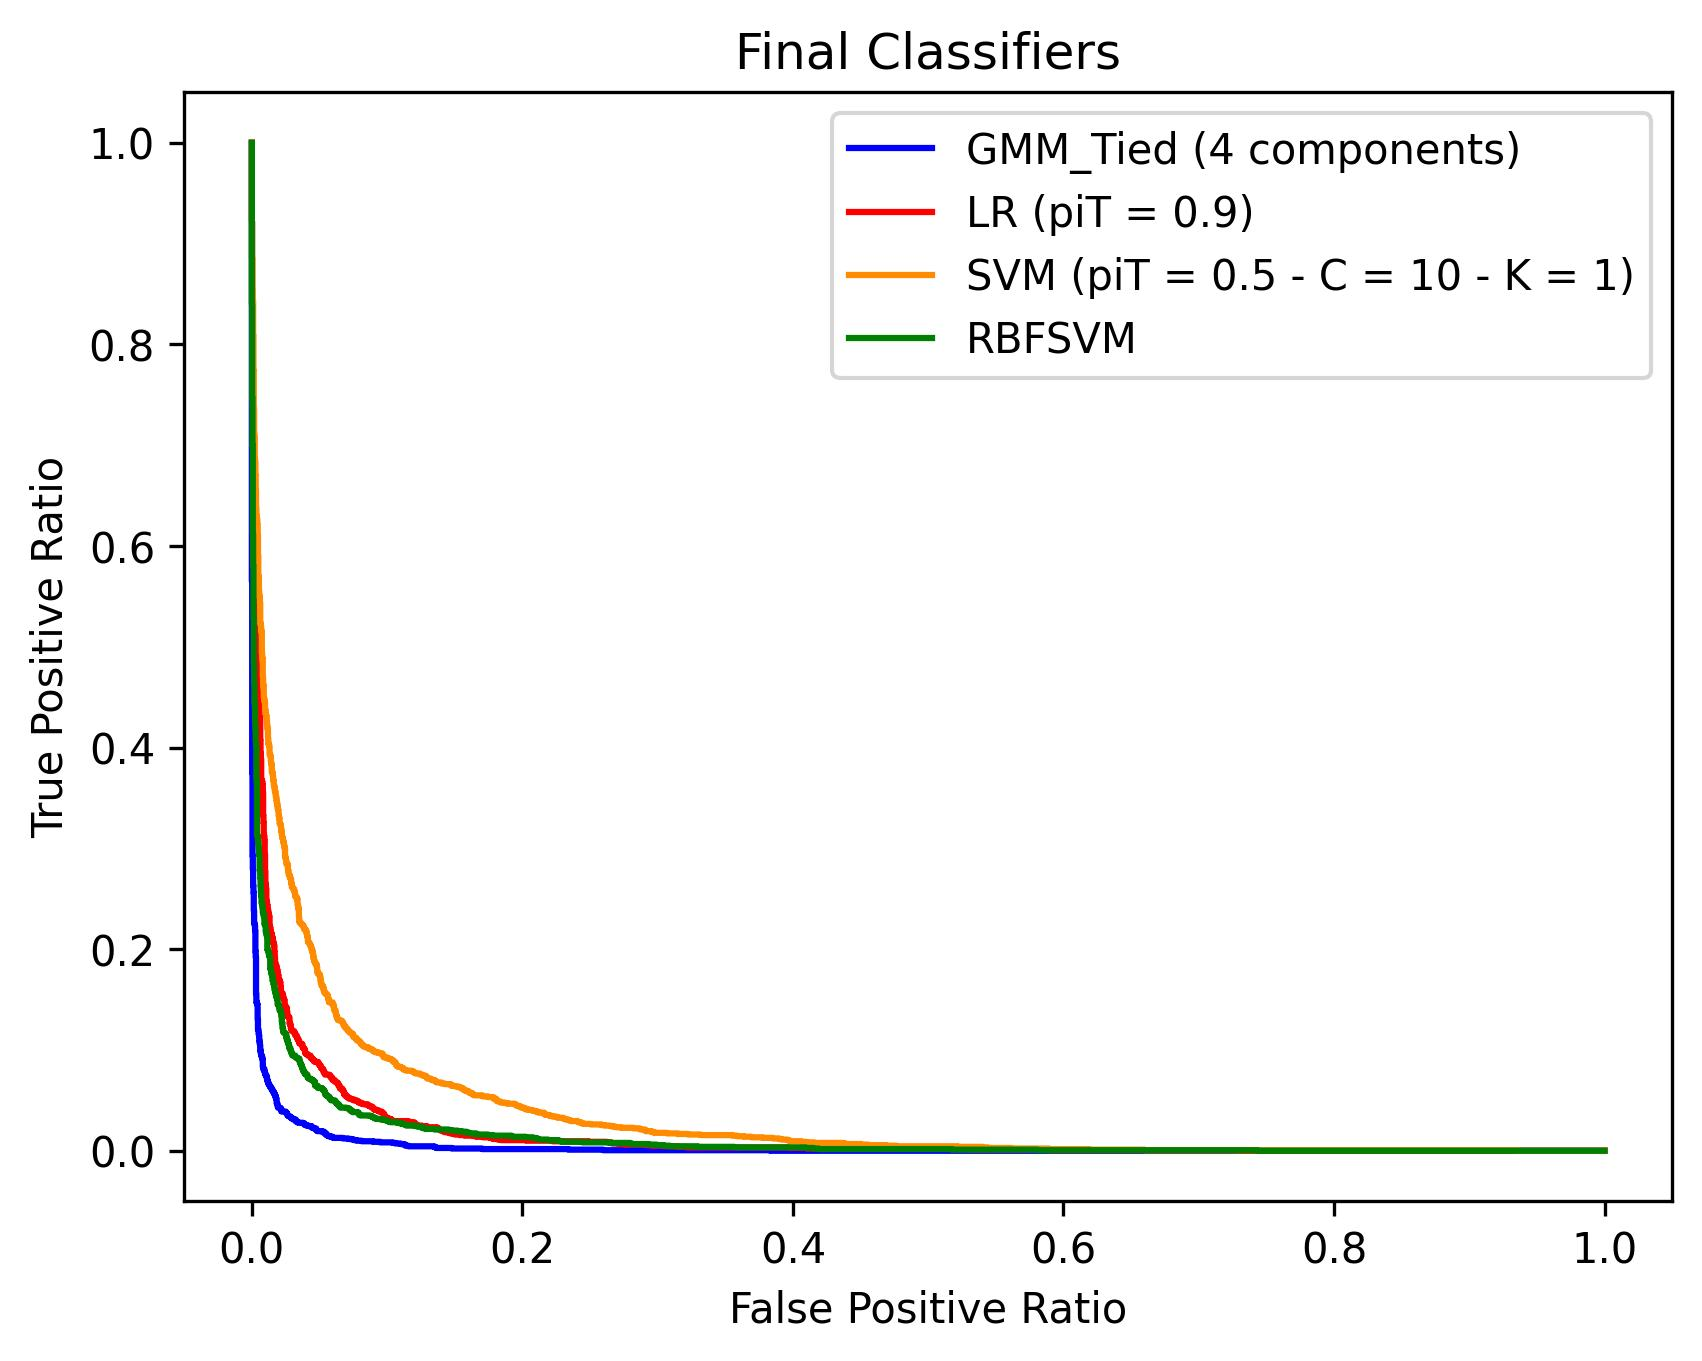
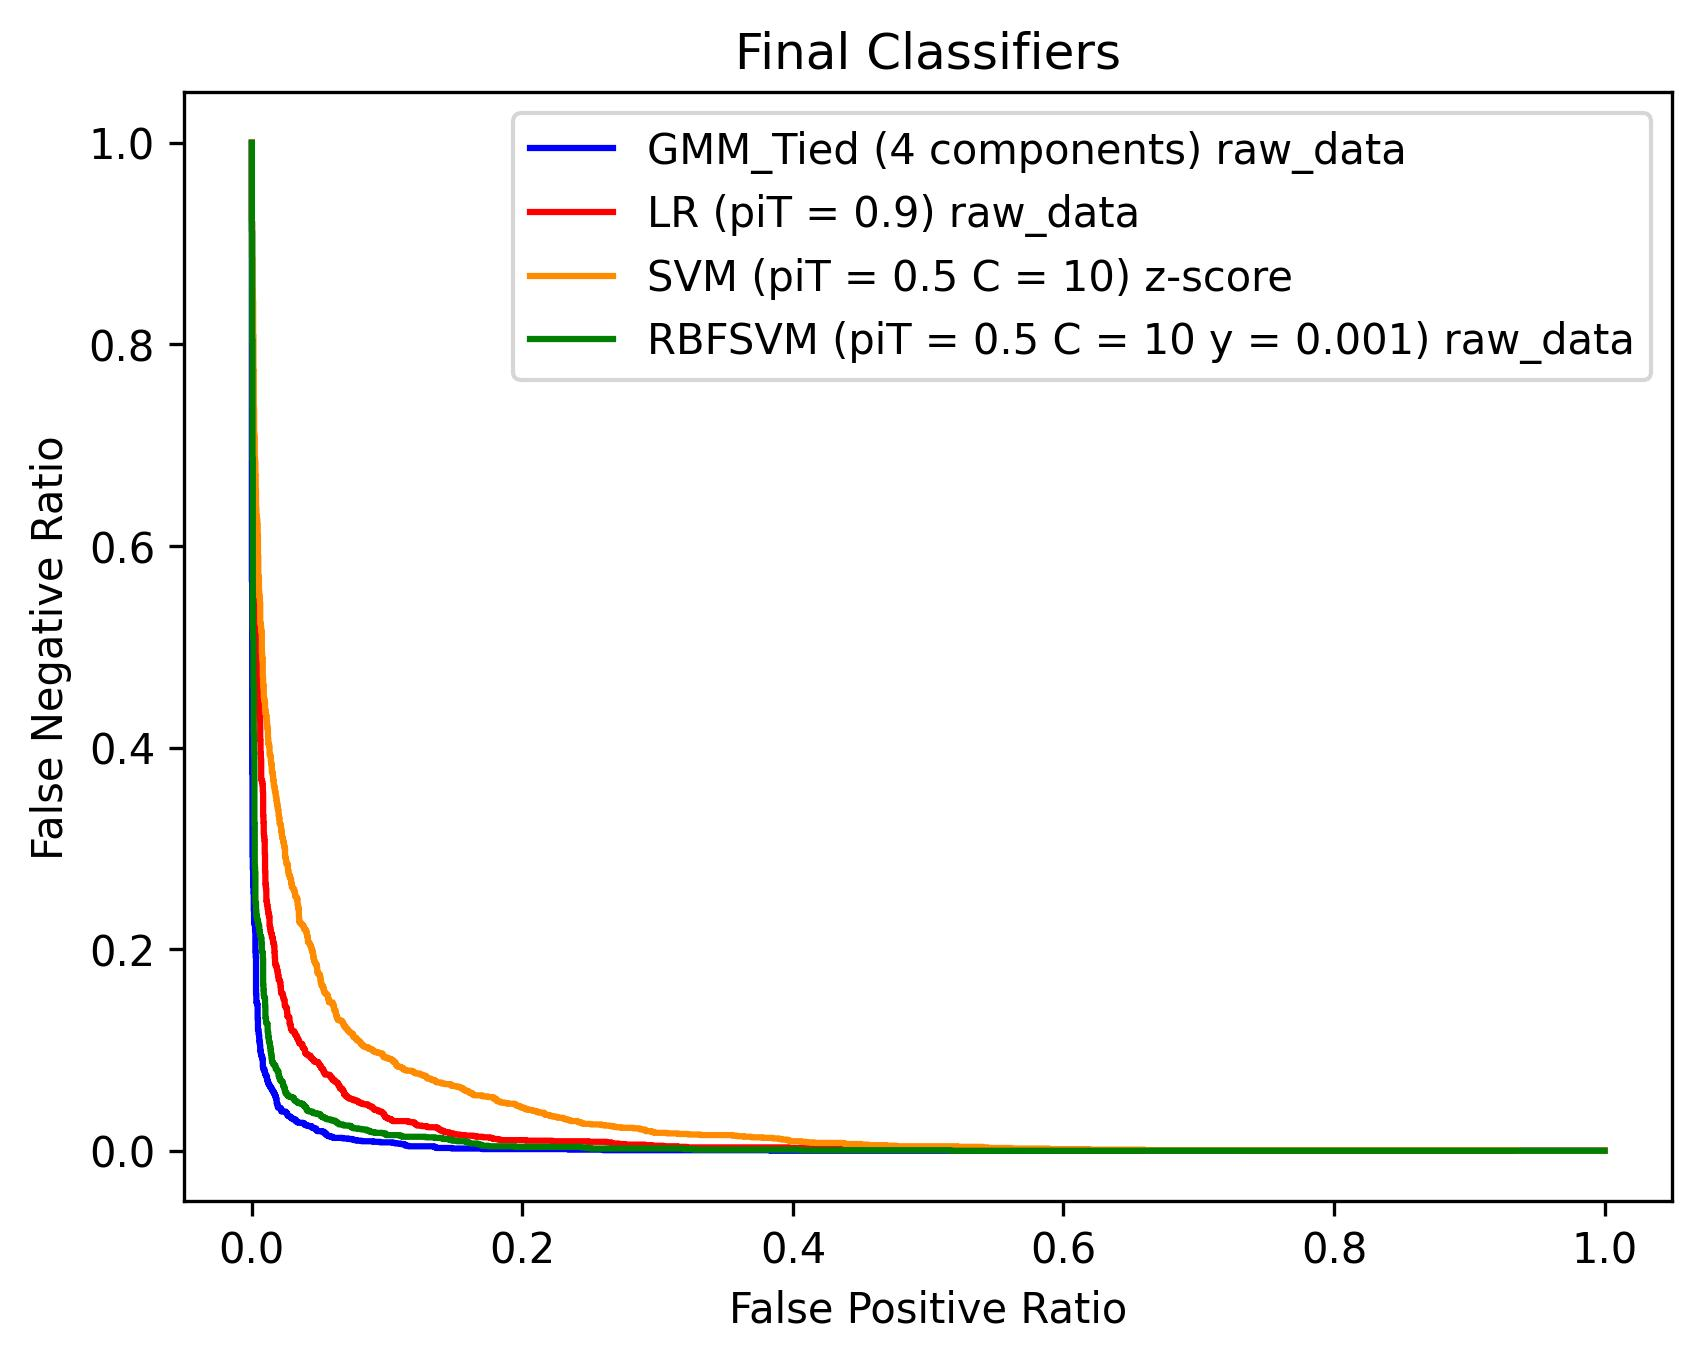
s

diff --git a/test_evaluation.py b/test_evaluation.py
@@ -7,6 +7,7 @@ import calibration
 import utility
 
 def test_models(DT, LT, DE, LE):
+
     priors = [0.5, 0.1, 0.9]
     calibrated_scores = []
 
@@ -14,10 +15,10 @@ def test_models(DT, LT, DE, LE):
     model_lr = logisticRegression.LogisticRegression(DT, LT, 0, 0.9)
     DTz = utility.z_normalization(DT) # per z-normalization
     model_svm = SVM.SVM(DTz, LT, 0.5, 10, 1)
-    model_rbfsvm = SVM.PolynomialSVM(DT, LT, 0.5, 0.001, 1, 1, 2) # DT, LT, prior, C, K, c, d
+    model_rbfsvm = SVM.RBF_SVM(DT, LT, 0.5, 10, 1, 0.001) # DT, LT, prior, C, K, y
 
     classifiers = [model_gmm, model_lr, model_svm, model_rbfsvm]
-    names = ['GMM_Tied (4 components)', 'LR (piT = 0.9)', 'SVM (piT = 0.5 - C = 10 - K = 1)', 'RBFSVM']
+    names = ['GMM_Tied (4 components) raw_data', 'LR (piT = 0.9) raw_data', 'SVM (piT = 0.5 C = 10) z-score', 'RBFSVM (piT = 0.5 C = 10 y = 0.001) raw_data']
 
     for idx, model in enumerate(classifiers):
         model.train()
@@ -39,3 +40,106 @@ def test_models(DT, LT, DE, LE):
     utility.plot_DET_curve(names, colors, calibrated_scores, LE, 'final_classifiers', 'Final Classifiers')
     print('DONE')
     
+
+def test_best_3_models(DT, LT, DE, LE):
+    # GMM, LR, RBFSVM
+    # GMM uncalibrated
+    # LR calibrate
+    # RBFSVM calibrate
+
+    p = numpy.linspace(-4, 4, 60) # BAYES Error Plot
+    minDCF_gmm = []
+    actDCF_gmm = []
+    minDCF_lr = []
+    actDCF_lr = []
+    minDCF_rbfsvm = []
+    actDCF_rbfsvm = []
+
+    for ip in p:
+        print(ip)
+        ip = 1.0 / (1.0 + numpy.exp(-ip))
+        scores_gmm = []
+        scores_lr = []
+        scores_rbfsvm = []
+
+        model_gmm_uncalibrated = GMM.GMM(DT, LT, 'tied', 4)
+        model_lr_calibrated = logisticRegression.LogisticRegression(DT, LT, 0, 0.9)
+        model_rbfsvm_calibrated = SVM.RBF_SVM(DT, LT, 0.5, 10, 1, 0.001) # DT, LT, prior, C, K, c, d
+
+        model_gmm_uncalibrated.train()
+        model_lr_calibrated.train()
+        model_rbfsvm_calibrated.train()
+
+        scores_gmm = model_gmm_uncalibrated.getScores(DE)
+        sc_lr = model_lr_calibrated.getScores(DT)
+        sc_rbfsvm = model_rbfsvm_calibrated.getScores(DT)
+
+        alpha1, beta1 = calibration.calibrated_parameters(sc_lr, LT) # alpha = w - beta = b
+        alpha2, beta2 = calibration.calibrated_parameters(sc_rbfsvm, LT) # alpha = w - beta = b
+
+        se_lr = model_lr_calibrated.getScores(DE)
+        se_rbfsvm = model_rbfsvm_calibrated.getScores(DE)
+
+        scores_lr = alpha1 * se_lr + beta1 - numpy.log(0.5 / (1 - 0.5))
+        scores_rbfsvm = alpha2 * se_rbfsvm + beta2 - numpy.log(0.5 / (1 - 0.5))
+
+        minDCF_gmm.append(evaluation.minimum_DCF(scores_gmm, LE, ip, 1, 1))
+        actDCF_gmm.append(evaluation.actual_DCF(scores_gmm, LE, ip, 1, 1))
+        minDCF_lr.append(evaluation.minimum_DCF(scores_lr, LE, ip, 1, 1))
+        actDCF_lr.append(evaluation.actual_DCF(scores_lr, LE, ip, 1, 1))
+        minDCF_rbfsvm.append(evaluation.minimum_DCF(scores_rbfsvm, LE, ip, 1, 1))
+        actDCF_rbfsvm.append(evaluation.actual_DCF(scores_rbfsvm, LE, ip, 1, 1))
+    
+    minDCF = [minDCF_gmm, minDCF_lr, minDCF_rbfsvm]
+    actDCF = [actDCF_gmm, actDCF_lr, actDCF_rbfsvm]
+    utility.bayes_error_plot_best_3_models(p, minDCF, actDCF, 'bayes_plot_best_3_models', 'Bayes plot comparing GMM - LR - RBFSVM')
+
+
+def test_gmm_models(D, L, DE, LE):
+    components = [1, 2, 4, 8, 16, 32]
+    types_gmm = ['full_cov', 'tied']
+    data_type = ['raw_data', 'z_score_data']
+
+    for t in types_gmm:         # 2 plot, in base al tipo gmm e gmm tied
+        minDCF = []
+        minDCF_test = []
+        for title in data_type:
+            if title == 'z_score_data':
+                DTR = utility.z_normalization(D) # dati normalizzati
+                DER = utility.z_normalization(DE) # dati normalizzati
+            else:
+                DTR = D
+                DER = DE
+            for c in components:
+                print("")
+                print("----- GMM_%s components = %.1f %s-----" % (t, c, title))
+                model_test = GMM.GMM(DTR, L, t, c)
+                model_test.train()
+
+                Dfolds, Lfolds = numpy.array_split(DTR, 5, axis=1), numpy.array_split(L, 5)
+                scores = []
+                orderedLabels = []
+                for idx in range(5):
+                    DV, LV = Dfolds[idx], Lfolds[idx]
+                    DT, LT = numpy.hstack(Dfolds[:idx] + Dfolds[idx+1:]), numpy.hstack(Lfolds[:idx] + Lfolds[idx+1:])
+
+                    model = GMM.GMM(DT, LT, t, c)
+                    model.train()
+                    scores.append(model.getScores(DV))
+                    orderedLabels.append(LV)
+                
+                sc1 = numpy.hstack(scores)
+                orderedLabels = numpy.hstack(orderedLabels)
+
+                sc2 = model_test.getScores(DER)
+                
+                minDCF.append(evaluation.minimum_DCF(sc1, orderedLabels, 0.5, 1, 1))
+                minDCF_test.append(evaluation.minimum_DCF(sc2, LE, 0.5, 1, 1))
+                
+                print("PRIOR Val: %.1f, minDCF: %.3f" % (0.5, evaluation.minimum_DCF(sc1, LT, 0.5, 1, 1)))
+                print("PRIOR Val: %.1f, minDCF: %.3f" % (0.1, evaluation.minimum_DCF(sc1, LT, 0.1, 1, 1)))
+                print("PRIOR Val: %.1f, minDCF: %.3f" % (0.9, evaluation.minimum_DCF(sc1, LT, 0.9, 1, 1)))
+                print("PRIOR Test: %.1f, minDCF: %.3f" % (0.5, evaluation.minimum_DCF(sc2, LE, 0.5, 1, 1)))
+                print("PRIOR Test: %.1f, minDCF: %.3f" % (0.1, evaluation.minimum_DCF(sc2, LE, 0.1, 1, 1)))
+                print("PRIOR Test: %.1f, minDCF: %.3f" % (0.9, evaluation.minimum_DCF(sc2, LE, 0.9, 1, 1)))      
+        utility.plot_gmm_histogram_3(minDCF, minDCF_test, components, t)

diff --git a/utility.py b/utility.py
@@ -288,8 +288,57 @@ def plot_DET_curve(models, colors, calibrated_scores, LE, filename, title):
         FNR = numpy.array(FNR)      # false negative ratio
         plt.plot(FPR, FNR, label = models[i], color = colors[i])
     plt.xlabel('False Positive Ratio')
-    plt.ylabel('True Positive Ratio')
+    plt.ylabel('False Negative Ratio')
     plt.title(title)
     plt.legend(loc='best')
     plt.savefig('Project_ML/images/evaluation/det_curve_%s.jpg' % filename, dpi=300, bbox_inches='tight')
+    plt.close(figure)
+
+
+def bayes_error_plot_best_3_models(p, minDCF, actDCF, filename, title):
+    names_min = ['GMM (4 components)', 'LR', 'RBFSVM']
+    names_act = ['GMM (4 components) uncalibrated', 'LR calibrated', 'RBFSVM calibrated']
+    fig = plt.figure()
+    colors = ['red', 'blue', 'orange']
+    for i in range(3):
+        plt.plot(p, numpy.array(minDCF[i]), label = 'minDCF %s' % names_min[i], color=colors[i], linestyle='--')
+        plt.plot(p, numpy.array(actDCF[i]), label = 'actDCF %s' % names_act[i], color=colors[i])
+    plt.ylim([0, 1])
+    plt.xlim([-4, 4])
+    plt.xlabel('prior')
+    plt.ylabel('DCF')
+    plt.legend(loc='best')
+    plt.title(title)
+    plt.savefig('Project_ML/images/evaluation/%s.jpg' % filename, dpi=300, bbox_inches='tight')
+    plt.close(fig)
+
+
+def plot_gmm_histogram_3(minDCF, minDCF_test, components, model_type):
+    # plot raw_datam z_score for gmm and gmm tied for training and test data
+    figure = plt.figure()
+    bar_width = 0.1
+    l = len(components)
+    x = numpy.arange(l)
+    border_width = 1.0
+    
+    val_raw = minDCF[:l]
+    val_z = minDCF[l:]
+    test_raw = minDCF_test[:l]
+    test_z = minDCF_test[l:]
+    
+    max_y_value = max(max(max(val_raw), max(val_z)), max(max(test_raw), max(test_z)))
+
+    plt.bar(x - 1.5 * bar_width, val_raw, bar_width, label='Validation raw_data', color='mediumpurple', edgecolor='black', hatch='/', linewidth=border_width, linestyle='--')
+    plt.bar(x - 0.5 * bar_width, test_raw, bar_width, label='Test raw_data', color='mediumpurple', edgecolor='black', linewidth=border_width)
+    plt.bar(x + 0.5 * bar_width, val_z, bar_width, label='Validation z-score', color='gold', edgecolor='black', hatch='/', linewidth=border_width, linestyle='--')
+    plt.bar(x + 1.5 * bar_width, test_z, bar_width, label='Test z-score', color='gold', edgecolor='black', linewidth=border_width)
+
+    plt.title('GMM %s piT = 0.5' % model_type)
+    plt.xlabel('GMM Components')
+    plt.ylabel('minDCF')
+    plt.xticks(x, components)
+    plt.legend(loc='best')
+    plt.ylim(0, max_y_value + 0.1)
+    plt.savefig('Project_ML/images/evaluation/evaluation_histogram_gmm_%s.jpg' % model_type, dpi=300, bbox_inches='tight')
+
     plt.close(figure)

diff --git a/controlRoom.py b/controlRoom.py
@@ -306,6 +306,54 @@ if __name__ == '__main__':
             minDCF.append(evaluation.minimum_DCF(scores, orderedLabels, priors[j], 1, 1))
     utility.plotDCF(c_X, minDCF, 'C')
     """
+    """---POLY SVM ---
+    Dfolds, Lfolds = utility.Ksplit(D, L, 5)
+    for p in priors:
+        print("")
+        print("-----Polynomial SVM (%.1f)-----" %(p))
+        scores = []
+        orderedLabels = []
+        for idx in range(5):
+            # Evaluation set
+            DV = Dfolds[idx]
+            LV = Lfolds[idx]
+            DT, LT = utility.createTrainSet(Dfolds, Lfolds, idx)
+            svm = SVM.PolynomialSVM(DT, LT, p, 0.0001, 1, 1, 2)
+            # Fase di training (dipende dal modello)
+            svm.train()
+            # Evaluation (dipende dal modello)
+            scores.append(svm.getScores(DV))
+            orderedLabels.append(LV)
+        scores = numpy.hstack(scores)
+        orderedLabels = numpy.hstack(orderedLabels)
+        for j in range(len(priors)):
+            minDCF = evaluation.minimum_DCF(scores, orderedLabels, priors[j], 1, 1)
+            print("PRIOR: %.1f, minDCF: %.3f" % (priors[j], minDCF))
+    """
+    """---POLI SVM in funzione di C, RAW, c=10---
+    c_X = numpy.logspace(-5, 5, num=40)
+    minDCF = []
+    Dfolds, Lfolds = utility.Ksplit(D, L, 5)
+    for p in priors:
+        for c in c_X:
+            scores = []
+            orderedLabels = []
+            for idx in range(5):
+                # Evaluation set
+                DV = Dfolds[idx]
+                LV = Lfolds[idx]
+                DT, LT = utility.createTrainSet(Dfolds, Lfolds, idx)
+                svm = SVM.PolynomialSVM(DT, LT, 0.5, c, 1, 1, 2)
+                # Fase di training (dipende dal modello)
+                svm.train()
+                # Evaluation (dipende dal modello)
+                scores.append(svm.getScores(DV))
+                orderedLabels.append(LV)
+            scores = numpy.hstack(scores)
+            orderedLabels = numpy.hstack(orderedLabels)
+            minDCF.append(evaluation.minimum_DCF(scores, orderedLabels, p, 1, 1))
+    utility.plotDCF(c_X, minDCF, 'C')
+    """
 
     #""" ----GMM-----
     #D, L = utility.load_dataset('Train.txt') # Pc Roberto
@@ -373,7 +421,12 @@ if __name__ == '__main__':
 
     #""" -----VALIDATION TEST-----
     DE, LE = utility.load_dataset_shuffled('Project_ML\Test.txt') # PC gabri
+
     test_evaluation.test_models(DT, LT, DE, LE)
+
+    #test_evaluation.test_best_3_models(DT, LT, DE, LE)
+    
+    #test_evaluation.test_gmm_models(DT, LT, DE, LE)
     
     
     #"""

diff --git a/SVM.py b/SVM.py
@@ -73,3 +73,36 @@ class PolynomialSVM():
         D = ((numpy.dot(self.DT.T, DV) + self.c)**self.d) + (self.K ** 2)
         return (utility.vcol(self.alpha) * utility.vcol(ZT) * D).sum(0)
 
+class RBF_SVM():
+    def __init__(self, DT, LT, prior, C, K, gamma):
+        # KERNEL FUNCTION: e^(-gamma*||x1-x2||^2)
+        self.DT = DT
+        self.LT = LT
+        self.prior = prior
+        self.C = C
+        self.K = K
+        self.gamma = gamma # a new hyperparameter
+
+    def train(self):
+        ZT = self.LT * 2 - 1
+        k_DT = numpy.zeros((self.DT.shape[1],self.DT.shape[1]))
+        for i in range(self.DT.shape[1]):
+            for j in range(self.DT.shape[1]):
+                k_DT[i,j] = numpy.exp(-self.gamma * numpy.linalg.norm(self.DT[:,i]-self.DT[:,j])**2)+self.K**2
+        zizj = numpy.dot(utility.vcol(ZT), utility.vrow(ZT))
+        self.Hij = zizj*k_DT
+        C1 = self.C * self.prior / (self.DT[:, self.LT == 1].shape[1] / self.DT.shape[1])
+        C0 = self.C * (1 - self.prior) / (self.DT[:, self.LT == 0].shape[1] / self.DT.shape[1])
+        b = [(0, C1) if self.LT[i] == 1 else (0, C0) for i in range(self.DT.shape[1])]
+        obj = obj_svm_wrap(self.Hij)
+        alpha, _, _ = scipy.optimize.fmin_l_bfgs_b(obj, numpy.zeros(self.DT.shape[1]), bounds=b, factr=1.0)
+        self.alpha = alpha
+
+    def getScores(self, DV):
+        ZT = self.LT * 2 - 1
+        k_D = numpy.zeros((self.DT.shape[1], DV.shape[1]))
+        for i in range(self.DT.shape[1]):
+            for j in range(DV.shape[1]):
+                k_D[i, j] = numpy.exp(-self.gamma * numpy.linalg.norm(self.DT[:, i] - DV[:, j]) ** 2) + self.K ** 2
+        return (utility.vcol(self.alpha) * utility.vcol(ZT) * k_D).sum(0)
+
